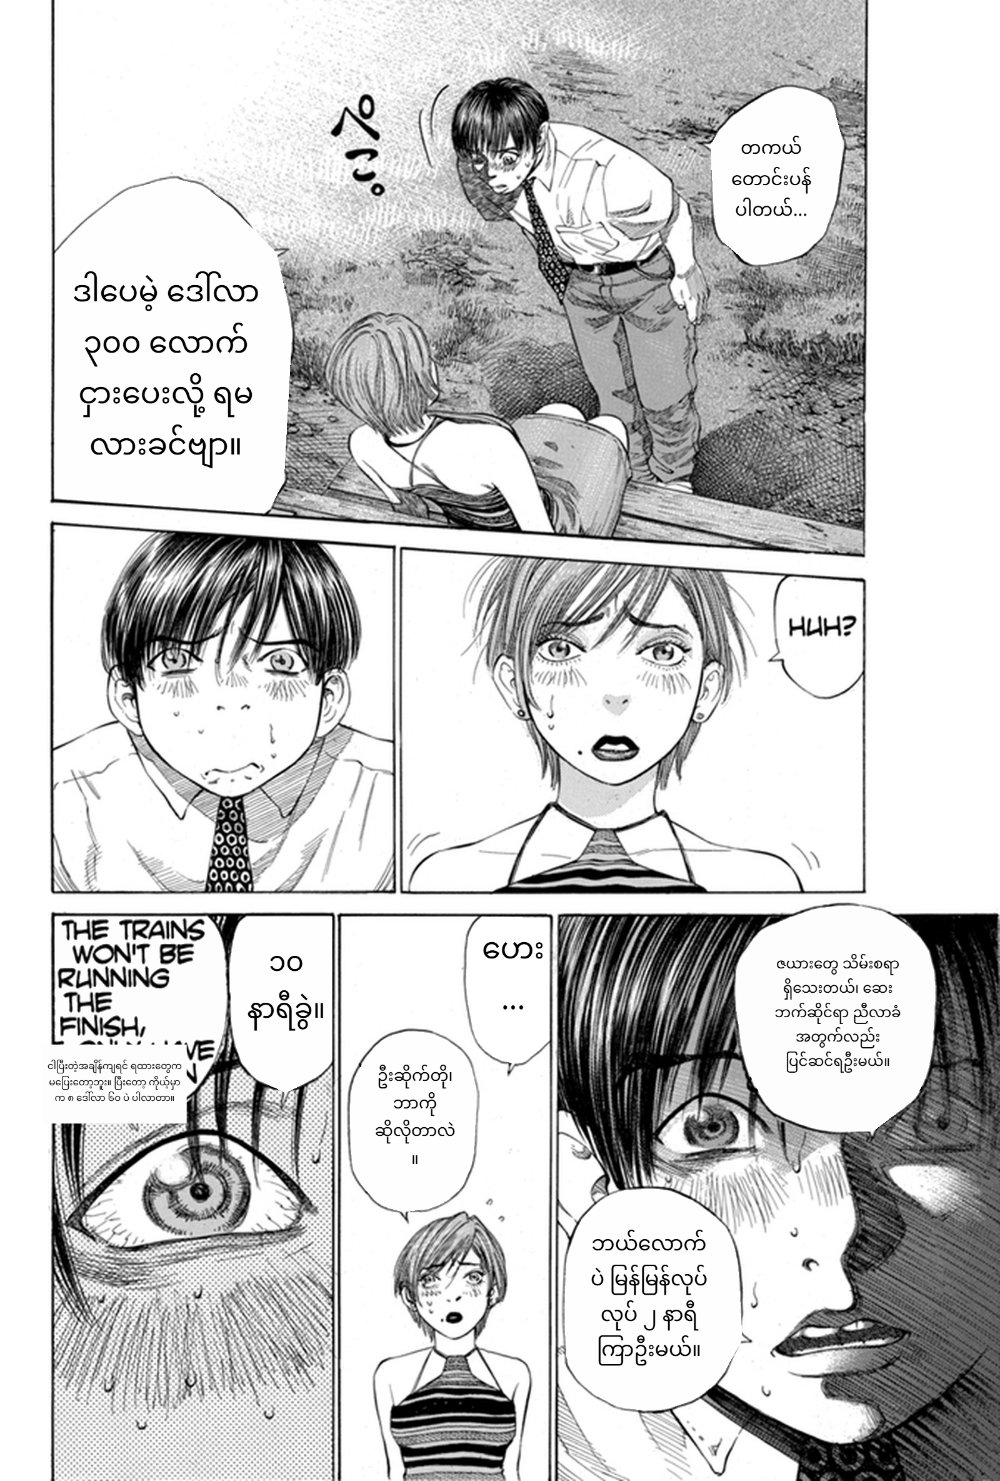
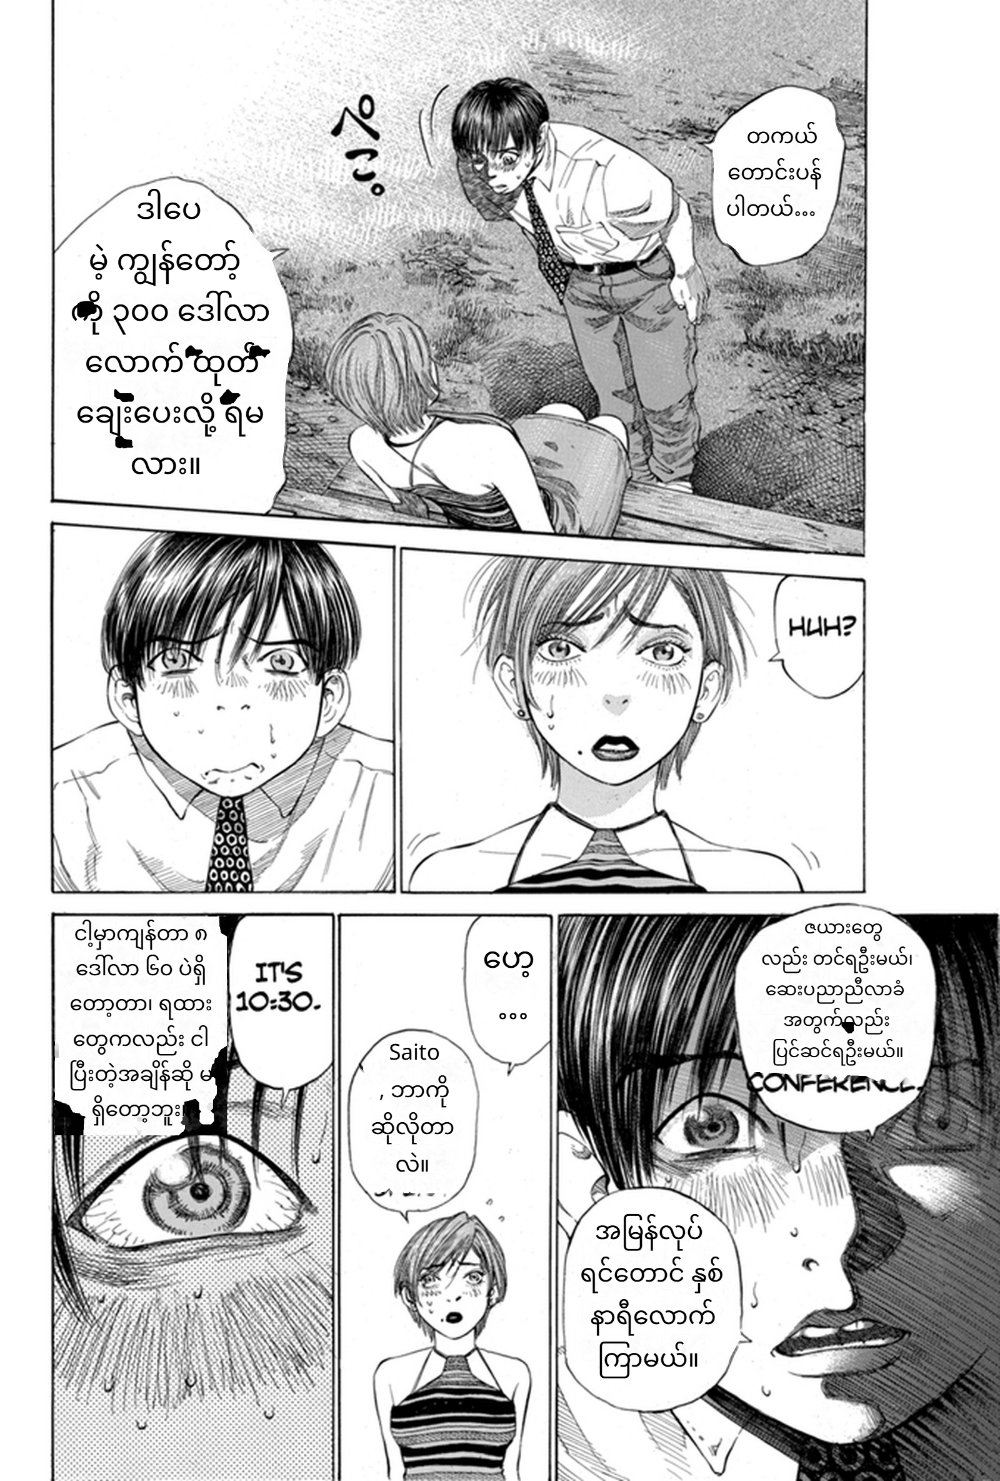
eval(comic): lettering round 2 measured: 94.8% fitted inside its box, 83.9% of text replaced; HANDOFF

diff --git a/docs/superpowers/HANDOFF.md b/docs/superpowers/HANDOFF.md
@@ -60,7 +60,7 @@ Last updated: 2026-10-25. Owner: Phone Sett (GitHub `phonesett10401`, private re
 
 ## Comic translator (English → Burmese, for MandaX) — plans 1 to 3 built on `claude/friendly-shaw-952d0e` (PR #1), not merged
 
-**Resume here (2026-10-26):** PR #1 was **squash-merged into master on 2026-10-25 (29ab675)**. The newer work is on branch **`claude/comic-round-2`** (from origin/master, same worktree folder), local only: 80c370a (Burmese shrinks inside a bubble instead of spreading; stricter joining), e2da7f3 (each found box grows to its whole bubble, `grow.ts`), 53c6171 (two designs), c1c577c (two plans), plus this HANDOFF. The old branch `claude/friendly-shaw-952d0e` is done. **Lettering round 2 is built** (`docs/superpowers/plans/2026-10-26-comic-lettering-round-2.md`, run inline): `bubbleShape` finds the inside of any box (tinted, gradient, dark) by low local contrast; `letters.ts` erases only the letter pixels and fills them from the box's own background; `shaped.ts` sets lines to the box's shape; `render.ts` letters inside the original box only (no white boxes; text on the art gets an outline); a `too-long` flag (Retry asks Gemini for `[shorter]` lines); boxes marked `sfx` are not sent. The report card's fit number is now "Burmese fitted inside its box" (share lettered at or above the usual minimum size); the card shows "not yet measured" until the real `pnpm eval:comic` run writes `fitInBox` (a stand-in dry run gave 0.857; the real run waits for the owner's free quota). Deferred minors from the final review: one extra re-render when a too-long flag changes; dark specks on strong gradients; a shortened retry may be flagged "length looks off"; too-long cut mode can drop a middle line; fitting re-measures text; inpaint rescans per ring. Known: the WebKit e2e `found boxes the reader cannot read…` fails ("Thank you! ~~") before and after this work. **Next:** `docs/superpowers/plans/2026-10-26-comic-finder-round-3.md` (8 tasks; Kaggle training, the owner signs in). Designs: `docs/superpowers/specs/2026-10-26-comic-lettering-round-2-design.md`, `…-comic-finder-round-3-design.md`. Owner decisions 2026-10-25/26: the lab is a tool people the owner shares it with **use** (not MandaX, not research-only); use every dataset that improves accuracy except Manga109 (publishers' pages for training only, never shown); bigger model fine, **computers only, not phones**, fast (about 2 s a page); train on Kaggle free GPUs, resume on the laptop; lettering: "texts should remain only in their original boxes, with transparent" (erase only letters, lines shaped to the box), meaningful text on the art translated, sound effects left as drawn. The report card's numbers (84.5% / 97.7%) predate cabc0e8 and a7c8509: re-measure with `pnpm eval:comic` when the free quota allows. Push only when the owner says.
+**Resume here (2026-11-02):** PR #1 was **squash-merged into master on 2026-10-25 (29ab675)**. The newer work is on branch **`claude/comic-round-2`** (from origin/master, same worktree folder), local only: 80c370a (Burmese shrinks inside a bubble instead of spreading; stricter joining), e2da7f3 (each found box grows to its whole bubble, `grow.ts`), 53c6171 (two designs), c1c577c (two plans), plus this HANDOFF. The old branch `claude/friendly-shaw-952d0e` is done. **Lettering round 2 is built** (`docs/superpowers/plans/2026-10-26-comic-lettering-round-2.md`, run inline): `bubbleShape` finds the inside of any box (tinted, gradient, dark) by low local contrast; `letters.ts` erases only the letter pixels and fills them from the box's own background; `shaped.ts` sets lines to the box's shape; `render.ts` letters inside the original box only (no white boxes; text on the art gets an outline); a `too-long` flag (Retry asks Gemini for `[shorter]` lines); boxes marked `sfx` are not sent. The report card's fit number is now "Burmese fitted inside its box" (share lettered at or above the usual minimum size); **Measured 2026-11-02 (real `pnpm eval:comic`, 97 pages, gemini-3.5-flash-lite):** Burmese fitted inside its box 94.8%, text replaced 83.9% (round 1: 84.5%), OCR words 85.1% before / 85.5% after Gemini repair (round 1: 83.2 / 83.3%). A first run had text replaced at 79.4%: the any-colour box finder took Pepper&Carrot's smooth painted art as bubbles, so box growing and the OCR clean-up now use the old paper-only rule (`bubbleShape(..., { paperOnly: true })`, commit 881c1f2) while lettering keeps the any-colour finder. Gemini's reply now follows a JSON schema (5857a08): it had sent broken JSON for Pepper&Carrot E14P01 every time. Old runs are kept in `training/runs/comic/eval-pipeline-round1` and `…-round2`; `COMIC_EVAL_FAKE=all pnpm eval:comic` checks all pages with stand-in Burmese, no quota; `.superpowers/bench/replaced-diff.ts` compares two runs per page. Deferred minors from the final review: one extra re-render when a too-long flag changes; dark specks on strong gradients; a shortened retry may be flagged "length looks off"; too-long cut mode can drop a middle line; fitting re-measures text; inpaint rescans per ring. Known: the WebKit e2e `found boxes the reader cannot read…` fails ("Thank you! ~~") before and after this work. **Next:** `docs/superpowers/plans/2026-10-26-comic-finder-round-3.md` (8 tasks; Kaggle training, the owner signs in). Designs: `docs/superpowers/specs/2026-10-26-comic-lettering-round-2-design.md`, `…-comic-finder-round-3-design.md`. Owner decisions 2026-10-25/26: the lab is a tool people the owner shares it with **use** (not MandaX, not research-only); use every dataset that improves accuracy except Manga109 (publishers' pages for training only, never shown); bigger model fine, **computers only, not phones**, fast (about 2 s a page); train on Kaggle free GPUs, resume on the laptop; lettering: "texts should remain only in their original boxes, with transparent" (erase only letters, lines shaped to the box), meaningful text on the art translated, sound effects left as drawn. Push only when the owner says.
 
 **Earlier (2026-10-25, evening):** work happens in the worktree `C:\Ai Models Library Project\.claude\worktrees\friendly-shaw-952d0e` (branch `claude/friendly-shaw-952d0e`). **Plan 3 is built** (`docs/superpowers/plans/2026-10-25-comic-translator-3-auto-page.md`; every ruling is in `.superpowers/sdd/2026-10-25-comic-translator-3-auto-page/progress.md`), plus the owner's changes after it: select many pictures/PDFs and every page is found, read and translated automatically (one Gemini request per page); bubbles keep their shape (text area = largest rectangle inside the bubble, outline gaps closed); the OCR reads only the bubble (art whitened); twin and stacked boxes are joined; sound effects are left as drawn; slips (other script, Zawgyi, missing) are retried once and never drawn while wrong; Gemini safety refusals are sent line by line; passing Gemini failures are retried. Model: **gemini-3.5-flash-lite only — the owner said never use gemini-3.5-flash**; Gemma 4 26B/31B were compared (60–170 s a page, often unavailable) and not chosen. Final measured run on the 97 test pages: 84.5% of text replaced, 97.7% fitted, OCR 83% of true words. A fresh Opus whole-branch review ran; its Critical/Important findings are fixed (ledger `Final:` lines). **Owner rule: do not push until the owner says; then squash-merge PR #1.** Before pushing, the owner sets Vercel `GEMINI_MODEL=gemini-3.5-flash-lite` (Production + Preview). Never edit `src/` while `pnpm eval:comic` runs: its dev server reloads and breaks the run. Python for the detector: `C:\Users\phone\miniconda3\envs\comictrain\python.exe` (run from `training/`); its tests are `training/test_comic_*.py`. The laptop overheats and swaps under long GPU runs: train with 2 data loaders, desk + open lid; `comic_train.py --resume` continues a stopped run.
 
